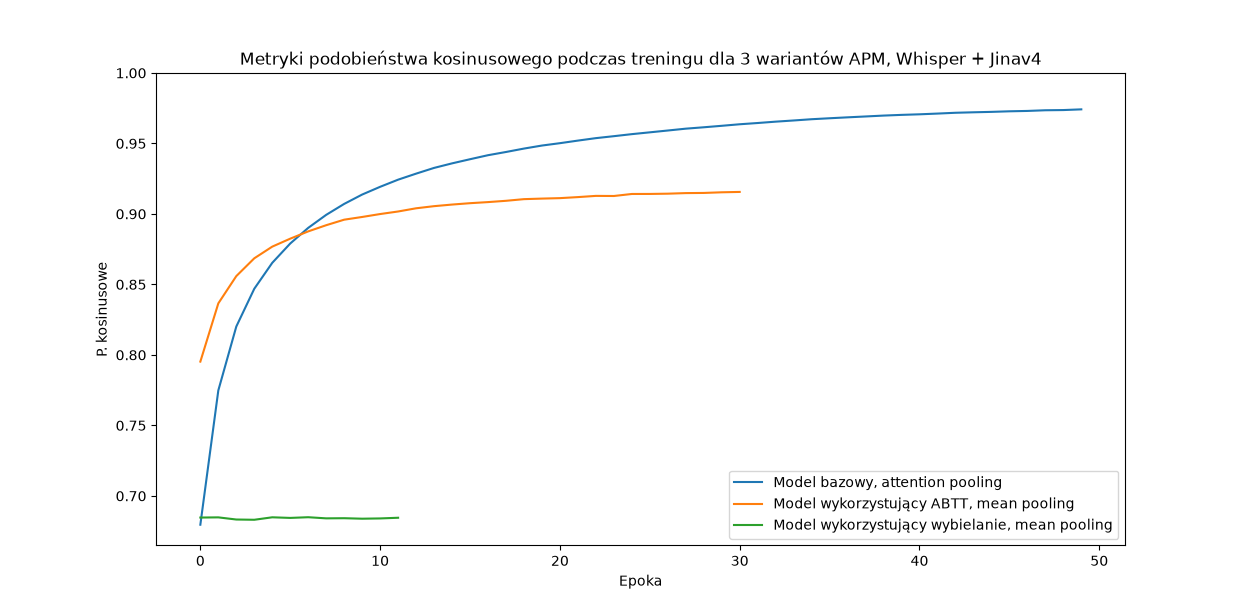
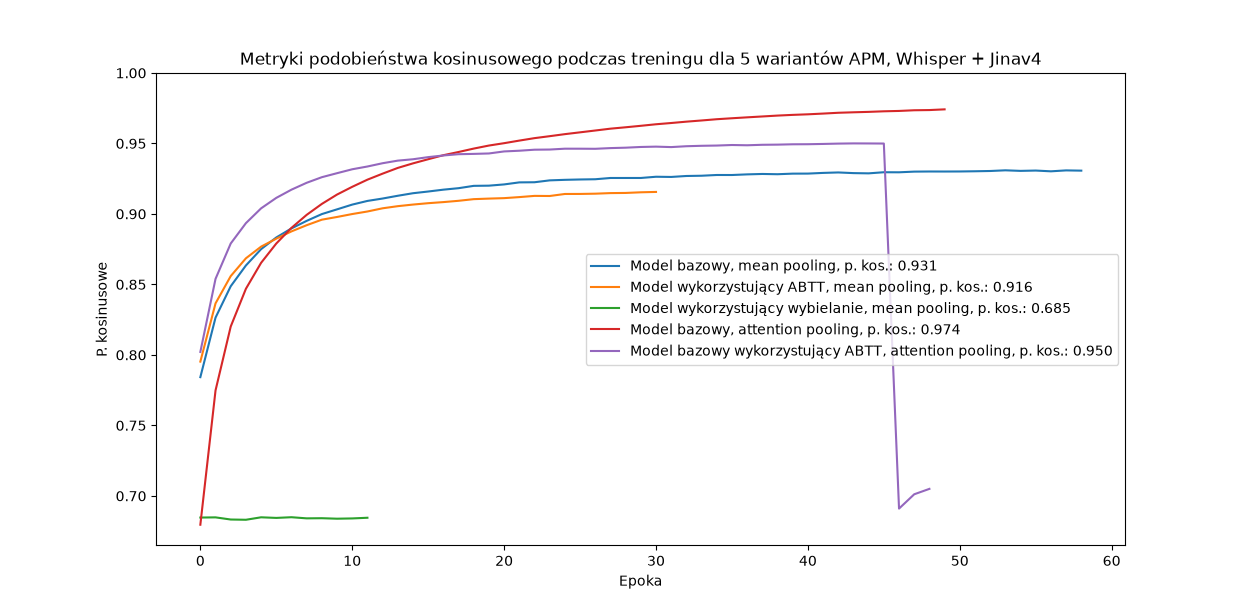
finish da chapter

diff --git a/chapters/latentTranslation.tex b/chapters/latentTranslation.tex
@@ -26,12 +26,14 @@ Diagram architektury modelu \textit{Attention Pool Model} znajduje się na Rysun
 
 \begin{equation}
 \begin{aligned}
-P_{\mathrm{mean}}(x) &= \frac{1}{T}\sum_{t=1}^{T}x_t, \\
-P_{\mathrm{attn}}(x) &= \sum_{t=1}^{T}\alpha_{t}x_t,
+&P_{\mathrm{mean}}(x) = \frac{1}{T}\sum_{t=1}^{T}x_t, \\
+&e_t = w^{\top}\tanh(W x_t+b), \\
+&\alpha_t = \frac{\exp(e_t)}{\sum_{j=1}^{T}\exp(e_j)}, \\
+&P_{\mathrm{attn}}(x) = \sum_{t=1}^{T}\alpha_t x_t,
 \end{aligned}
 \end{equation}
 
-gdzie $\alpha_t$ jest maską atencji otrzymaną z enkodera audio. Następnie, reprezentacje przetwarzane są za pomocą warstwy liniowej poprzez ich projekcję do przestrzeni embeddingowej dla tekstu. Celem treningu jest maksymalizacja podobieństwa kosinusowego między uzyskanymi reprezentacjami mowy a wzorcowymi reprezentacjami ich transkrypcji. W tym celu minimalizowana jest następująca funkcja straty:
+gdzie $W$, $b$ i $w$ stanowią parametry modelu, których wartości optymalizowane są w trakcie treningu. Następnie, reprezentacje przetwarzane są za pomocą warstwy liniowej poprzez ich projekcję do przestrzeni embeddingowej dla tekstu. Celem treningu jest maksymalizacja podobieństwa kosinusowego między uzyskanymi reprezentacjami mowy a wzorcowymi reprezentacjami ich transkrypcji. W tym celu minimalizowana jest następująca funkcja straty:
 
 \begin{equation}
     \begin{aligned}
@@ -154,16 +156,17 @@ W ramach implementacji proponowanych modeli wykorzystany został framework PyTor
     \caption{Podobieństwo kosinusowe między parami audio-transkrypcja dla treningu modelu APM wykorzystującego model Whisper. Różna liczba epok spowodowana jest zastosowaniem zatrzymania treningu w przypadku braku znaczących zmian dla funkcji straty na zbiorze walidacyjnym.}
     \label{fig:models:apmWhisper}
 \end{figure}
-Rysunek \ref{fig:models:apmWhisper} przedstawia zmianę wartości podobieństwa kosinusowego na zbiorze walidacyjnym w trakcie treningu modelu \textit{Attention Pool Model} wykorzystującego model Whisper. Widoczne są na nim dane pochodzące z trzech różnych wariantów \textit{APM}, korzystające z różnego rodzaju przetwarzania embeddingów uzyskanych za pomocą procesowania nagrań mowy przez zamrożony enkoder modelu ASR. Widoczna jest tutaj wyraźna porażka wybielania jako metody postprocessingu embeddingów audio w ramach treningu modelu (maksymalna wartość podobieństwa kosinusowego: $0.68$). Jest to zachowanie niezwykle ciekawe w świetle wniosków z eksperymentów z Rozdziału 3 (tabela \ref{tab:latent:compProb}), które wykazały poprawę w enkodowaniu semantyki przez bazowy model Whisper w ramach tego zabiegu. Prawdopodobnym wyjaśnieniem jest wykorzystanie zbioru danych o dosyć wąskiej tematyce, w języku polskim, co doprawadziło do pewnego załamania przestrzeni latentnej modelu. Wykorzystanie przetwarzania \textit{All But the Top} pozwoliło modelowi rozpocząć proces treningu z lepszego punktu startowego ($\approx 0.80$ dla modelu \textit{ABTT}, $\approx 0.68$ dla modelu bazowego), lecz ostatecznie nie poprawiło końcowego rezultatu (maksymalne podobieństwo kosinusowe dla modelu wykorzystującego przetwarzanie \textit{All But the Top} $=0.92$, dla modelu bazowego $=0.97$). Możliwe, że mimo początkowo lepszych warunków i w pewnym sensie uproszczonej i uporządkowanej przestrzeni embeddingowej, adapter posiadający większą ilość informacji otrzymanych przez bezpośrednie przetwarzanie sygnału mowy przez enkoder modelu Whisper był w stanie lepiej enkodować reprezentacje, dzięki czemu zaobserwowano ciągłą poprawę metryk i lepszy wynik końcowy dla modelu nie korzystającego z przetwarzania wstępnego embeddingów. Podobnie jak dla modelu Whisper, model bazowy z wykorzystaniem \textit{attention pooling} wykazał się większym wynikiem dla podobieństwa kosinusowego (maksymalne podobieństwo: $0.96$), lecz nadal jest to wynik niższy niż w przypadku modelu Whisper, co po raz kolejny jest zachowaniem nie przewidzianym przez eksperymenty z Rozdziału 3.
+Rysunek \ref{fig:models:apmWhisper} przedstawia zmianę wartości podobieństwa kosinusowego na zbiorze walidacyjnym w trakcie treningu modelu \textit{Attention Pool Model} wykorzystującego model Whisper. Widoczne są na nim dane pochodzące z pięciu różnych wariantów \textit{APM}, korzystające z różnego rodzaju przetwarzania embeddingów uzyskanych za pomocą procesowania nagrań mowy przez zamrożony enkoder modelu ASR oraz operacji agregacji (\textit{pooling}). Modele wykorzystujące \textit{attention pooling} w połączeniu z wybielaniem były zbyt niestabilne i trening ich skutkował eksplozją wartości gradientów, stąd też nie zostały ujęte w analizie. W ramach modeli wykorzystujących \textit{mean pooling}, widoczna jest wyraźna porażka wybielania jako metody postprocessingu embeddingów audio w ramach treningu modelu (maksymalna wartość podobieństwa kosinusowego: $0.68$). Jest to zachowanie niezwykle ciekawe w świetle wniosków z eksperymentów z Rozdziału 3 (tabela \ref{tab:latent:compProb}), które wykazały poprawę w enkodowaniu semantyki przez bazowy model Whisper w ramach tego zabiegu. Prawdopodobnym wyjaśnieniem jest wykorzystanie zbioru danych o dosyć wąskiej tematyce, w języku polskim, co doprawadziło do pewnego załamania przestrzeni latentnej modelu. Wykorzystanie przetwarzania \textit{All But the Top} również nie poprawiło końcowego rezultatu w porównaniu z modelem bazowym (maksymalne podobieństwo kosinusowe dla modelu wykorzystującego przetwarzanie \textit{All But the Top} $=0.916$, dla modelu bazowego $=0.931$). Analizując warianty modelu wykorzystujące bardziej złożoną operację agregacji, zauważyć można ich wyraźną przewagę na prostszym uśrednieniem reprezentacji, zarówno dla modelu bazowego, jak i wykorzystującego przetwarzanie \textit{ABTT}, z podobnie wyższymi wynikami modelu nie korzystającego z postprocessingu embeddingów (maksymalne podobieństwo kosinusowe $=0.974$ dla modelu bazowego, $0.950$ dla modelu z przetwarzaniem \textit{All But the Top}). Dodatkowo, przebieg wartości podobieństwa kosinusowego dla zbioru walidacyjnego dla modelu korzystającego z przetwarzania wartości wyjściowych enkodera audio uwidacznia niestabilność modelu, wcześniej zaobserwowaną dla operacji wybielania. Wykres ten pozwala na wysunięcie dwóch wniosków. Pierwszym z nich jest wyraźna przewaga bardziej złożonej metody agregacji \textit{attention pooling} nad uśrednieniem wartości embeddingów. Kolejnym, bardziej interesującym w świetle wyników eksperymentów z Rozdziału 3, jest interakcja między uczeniem modelu a przetwarzaniem wejściowych embeddingów. Mimo bardziej nacechowanej semantycznie reprezentacji uzyskanej na podstawie transformacji \textit{All But the Top} i wybielania, utrata dodatkowych informacji obecnych w oryginalnych reprezentacjach przed ich przetworzeniem prowadzi do ogólnego pogorszenia działania i, w niektórych przypadkach, wysokiej niestabilności modelu.
 \begin{figure}[h]
     \centering
     \includegraphics[width=0.8\linewidth]{figures/models/apm_m4t.png}
     \caption{Podobieństwo kosinusowe między parami audio-transkrypcja dla treningu modelu APM wykorzystującego model SeamlessM4T. Różna liczba epok spowodowana jest zastosowaniem zatrzymania treningu w przypadku braku znaczących zmian dla funkcji straty na zbiorze walidacyjnym.}
     \label{fig:models:apmM4T}
 \end{figure}
-\todo{Dodać bazowy}
-Rysunek \ref{fig:models:apmM4T} przedstawia analogicze metryki dla wariantów \textit{Attention Pool Model} wykorzystujących enkoder modelu SeamlessM4T. Widoczna jest tutaj większa stabilność modelu względem wykorzystanej metody przetwarzania embeddingów audio. Zarówno \textit{All But the Top}, jak i wybielanie zachowały się podobnie, z lekką przewagą metody \textit{ABTT} (maksymalne podobieństwo kosinusowe $=0.943$, dla wybielania $=0.937$). Są to wartości większe od modelu korzystającego z Whisper i przetwarzania wstępnego embeddingów, lecz nie poprawiły one wyników bazowych dla tego wariantu. Po raz kolejny, jest to zachowanie częściowo rozbieżne z właściwościami zaobserwowanymi w eksperymentach z Rozdziału 3 (tabela \ref{tab:latent:compProb}), które wskazywałby na znaczne pogorszenie możliwości enkodowania relacji semantycznych przez model po wybieleniu embeddingów wynikowych.
-\todo{Omówić model bazowy}
+
+Rysunek \ref{fig:models:apmM4T} przedstawia analogicze metryki dla wariantów \textit{Attention Pool Model} wykorzystujących enkoder modelu SeamlessM4T. Po raz kolejny, podobnie jak dla modelu Whisper, widoczna jest wyraźna przewaga agregacji wykorzystującej parametry optymalizowane podczas treningu (\textit{attention pooling}). Ponownie zauważyć można różnicę między wnioskami z eksperymentów z Rozdziału 3 a przebiegami i maksymalnymi wartościami podobieństwa kosinusowego w ramach różnych metod przetwarzania (tabela \ref{tab:latent:compProb}), według których metoda \textit{All But the Top} poprawiała znacząco semantyczną charakterystykę przestrzeni ukrytej modelu SeamlessM4T. Identyczny porządek maksymalnych wartości podobieństwa kosinusowego ($0.937$ dla wybielania, $0.943$ dla \textit{ABTT}, $0.947$ dla modelu bazowego) jak w przypadku wcześniej ewaluowanego modelu Whisper, stanowi pewne potwierdzenie wcześniej wysuniętej hipotezy dotyczącej utraty informacji i jej wpływu na trening modelu -- wybielanie, jako najbardziej inwazyjna metoda przetwarzania, usuwa najwięcej dodatkowych informacji, \textit{All But the Top} pozostawia większą ilość danych, model bazowy operuje na danych nieprzetworzonych. Warto jednak zwócić uwagę na niewielką różnicę między dwoma wariantami wykorzystującymi agregację \textit{attention pooling}, dla których maksymalne podobieństwo kosinusowe jest niemal identyczne (z niewielką przewagą dla modelu bazowego, mierzoną w dziesięciotysięcznych). Może być to oznaka, że mimo pewnej utraty informacji, poprawa semantyki przestrzeni ukrytej enkodera audio pozwoliła jednak na stabilny trening modelu i uzyskanie prawie identycznego wyniku jak w przypadku modelu bazowego.
+
+Ostatnim aspektem analizy przebiegów modeli \textit{Attention Pool Model} jest wpływ doboru enkodera na końcowy model. Whisper cechuje się wysoką niestabilnością w ramach różnych wariantów przetwarzania, lecz ostatecznie uzyskano wyższy wynik podobieństwa kosinusowego ($0.965$ dla zbioru testowego, $0.974$ dla zbioru walidacyjnego) niż dla modelu SeamlessM4T ($0.951$ dla zbioru testowego, $0.959$ dla zbioru walidacyjnego), który z kolei cechował się mniejszą wariancją w charakterystyce jego przebiegów. Nie jest to jednak drastyczna różnica wartości, a mając na uwadzę mniejszą podatność na zakłócenia i zmiany przetwarzania dla modelu \textit{APM} wykorzystującego SeamlessM4T, wydaje się on lepszym kandydatem do wykorzystania w przyszłym rozwoju architektury i innych eksperymentach z tym związanych.
 \paragraph{Embedding Alignment Model}
 \begin{figure}[h]
     \centering
@@ -211,7 +214,7 @@ Mimo porażki modelu w drugiej połowie treningu, jego metryki przed gwałtownym
 
 \subsection{Wnioski}
 \subsubsection{Ewaluacja architektury \textit{Attention Pool Model}}
-Omówienie, porównanie wariantów, wnioski dotyczące zachowania i generalizacji
+Architektura \textit{Attention Pool Model} bardzo dobrze poradziła sobie z zadaniem translacji przestrzeni latentnych o różnych wymiarowościach i formatach. Wysokie wyniki podobieństwa kosinusowego pokazują, że sygnał audio jest wiernie odzwierciedlany w przestrzeni embeddingowej istniejącego modelu semantycznie enkodującego tekst. Należy mieć jednak na uwadzę, że wysokie metryki podobieinstwa nie przekładają się bezpośrednio na jakość wyszukiwania informacji. Przez wykorzystanie modelu embeddingowego jako wzorca, wszelkie błędy obecne w tym modelu propagowane będą przez gałąź przetwarzania mowy. Z racji braku istnienia takiego modelu dedykowanego dla mowy klinicznej w języku polskim, wymagane jest sprawdzenie działania \textit{APM} w warunkach całościowego systemu wyszukiwania informacji.
 \subsubsection{Ewaluacja architektury \textit{Embedding Alignment Model}}
 Model \textit{Embedding Alignment Model} wytrenowany bez wykorzystania treningu wstępnego wykazał się stabilnością w ramach treningu i wysokim podobieństwem kosinusowym między przykładami pozytywnymi w zbiorze walidacyjnym. Trening metodą \textit{Data2Vec} nie okazał się być stabilny w warunkach eksperymentu, co miało diametralny wpływ na jakość modeli \textit{EAM} wykorzystujące powstałe enkodery. Jednakże, aby jednoznacznie stwierdzić, czy trening wstępny nie nadaje się do wykorzystania w tym kontekście, należałoby powtórzyć eksperyment na większym zbiorze danych.
 Zdecydowaną zaletą tego podejścia jest brak bezpośredniej zależności modelu \textit{Embedding Alignment Model} od wyspecjalizowanego modelu embeddingowego operującego na tekstach z domeny specjalistycznego języka medycznego w języku polskim. W przeciwieństwie do modelu \textit{Attention Pool Model}, model ten uczy się zależności obecnych w zbiorze danych tworząc własną przestrzeń embeddingową, co potencjalnie pozwoli na dobre wyniki w dalszej ewaluacji. W przyszłości, w przypadku powstania dedykowanego modelu embeddingowego dla tekstów medycznych w języku polskim, należy będzie porównać zachowanie modelu \textit{EAM} z modelem \textit{APM} opartym o taki model embeddingowy. Jednakże, na stan teraźniejszy, \textit{Embedding Alignment Model} wydaje się być potencjalnie lepszą alternatywą w ramach zadania wyszukiwania informacji na podstawie mowy w specjalistycznych bazach medycznych w języku polskim.
